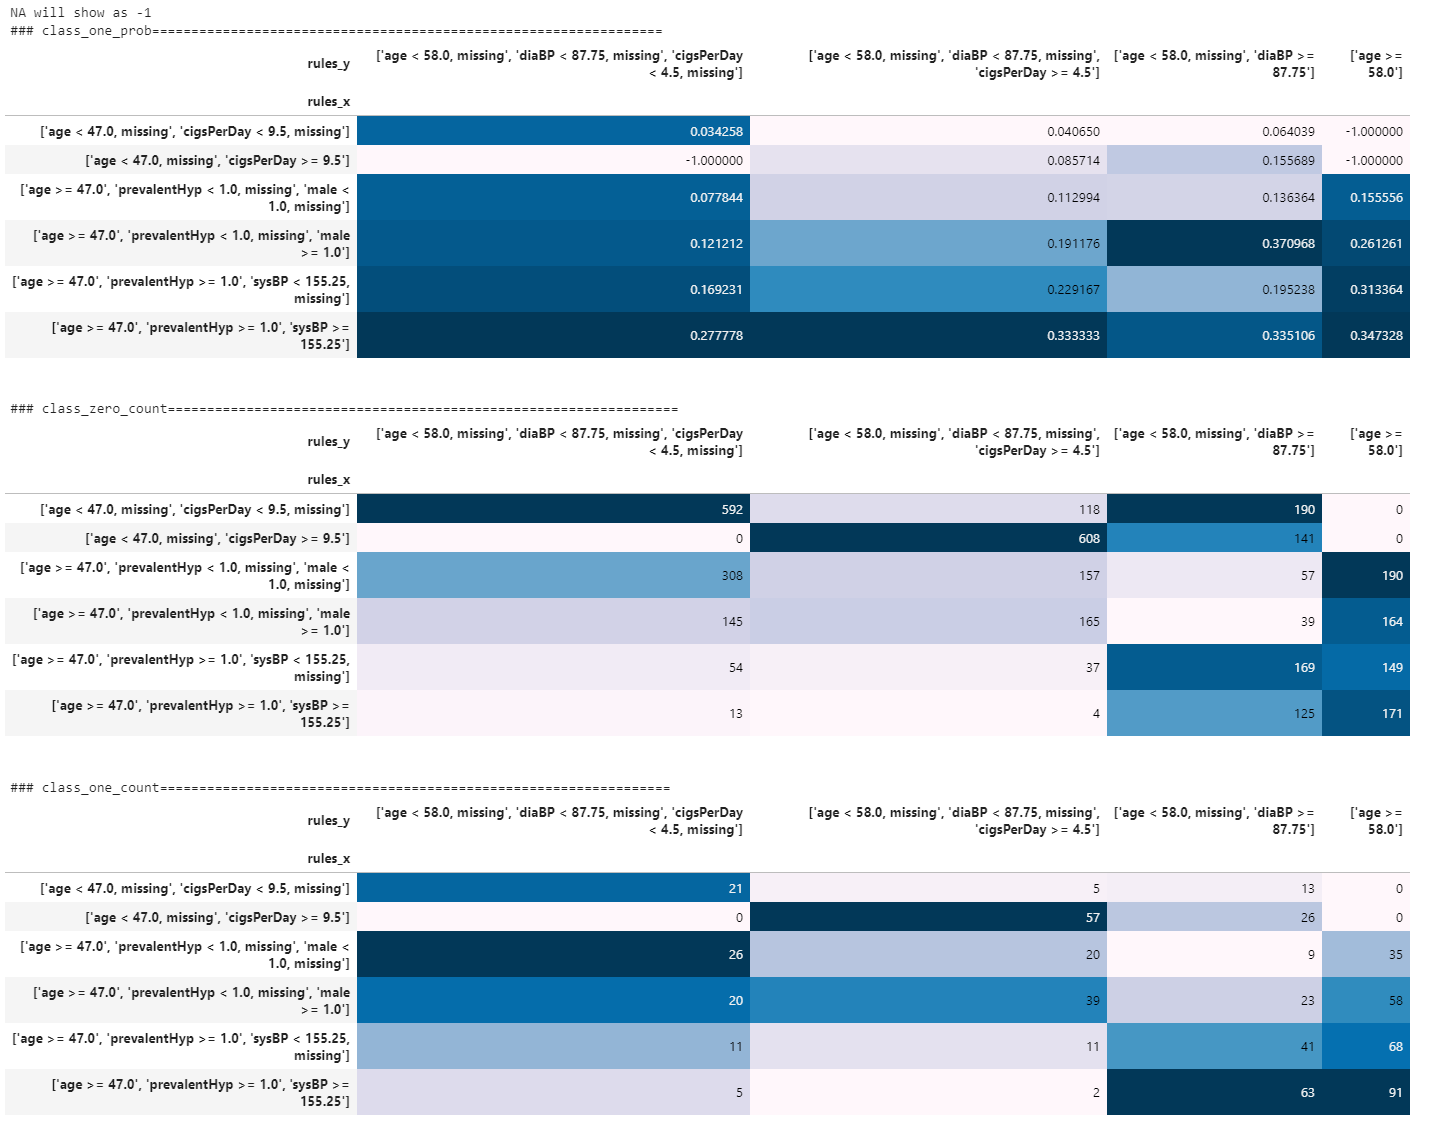
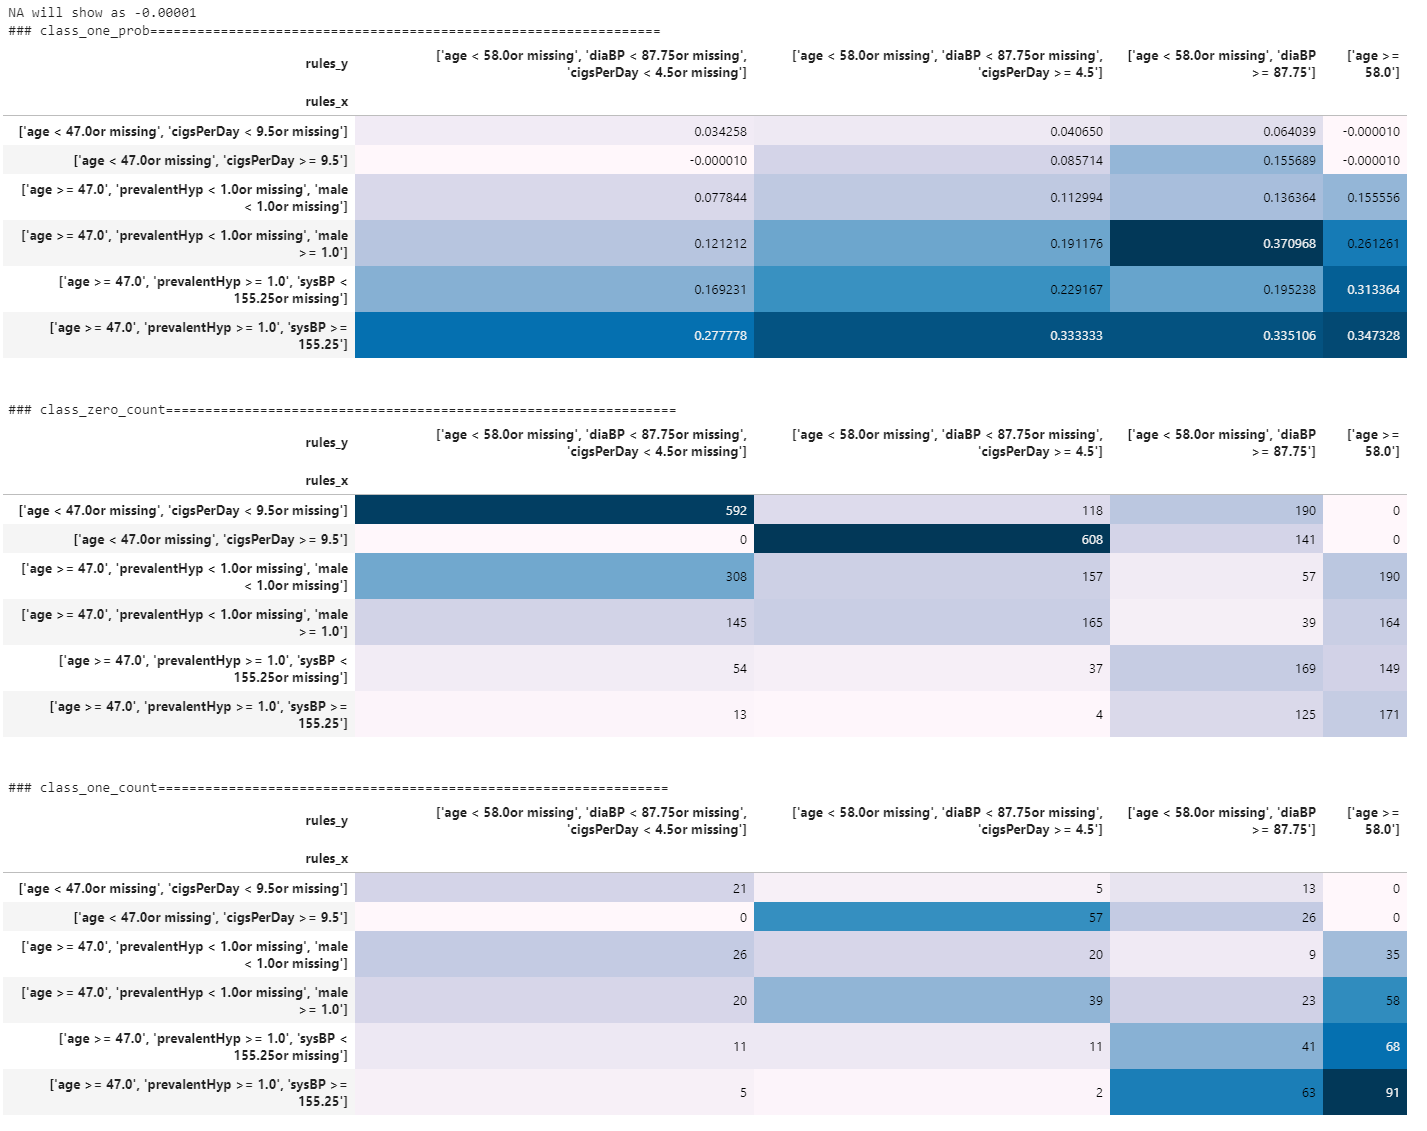
Fix value color of the matrix

diff --git a/README.md b/README.md
@@ -37,11 +37,11 @@ from source.predict import predict, model_fn
 model = model_fn()
 class_zero_count, class_one_count, class_one_prob = predict(model, x, y)
 
-print('NA will show as -1')
-for name, matrix in {'class_one_prob': class_one_prob.fillna(-1), 'class_zero_count': class_zero_count.fillna(0).astype(int), 
+print('NA will show as -0.00001')
+for name, matrix in {'class_one_prob': class_one_prob.fillna(-0.00001), 'class_zero_count': class_zero_count.fillna(0).astype(int), 
                      'class_one_count': class_one_count.fillna(0).astype(int)}.items():
     print(f'### {name}=================================================================')
-    display(matrix)#.style.background_gradient())
+    display(matrix.style.background_gradient(axis = None))
     print()
     print()
 ```
